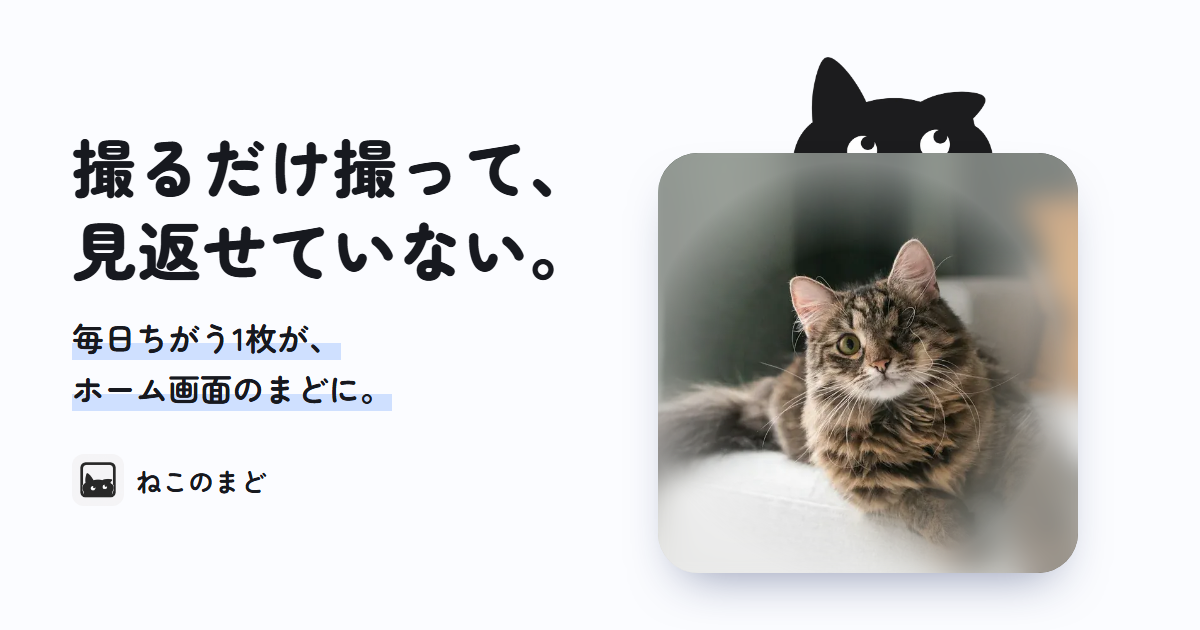
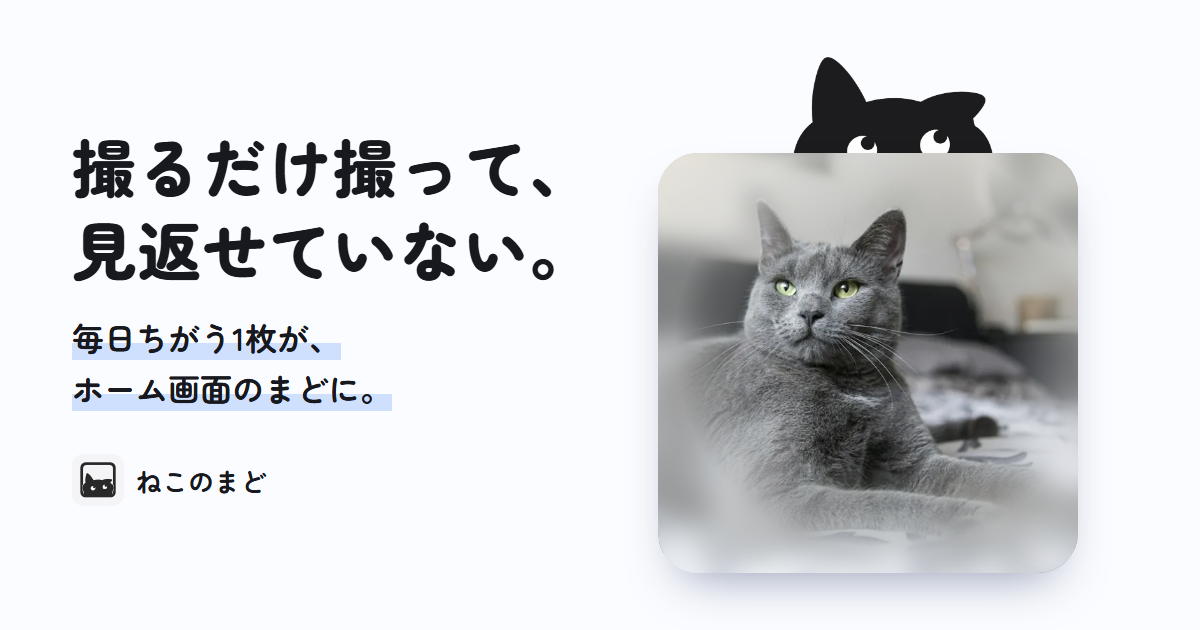
LP: 最初の写真を両目の見える猫に、見出しの下線を両方の行に

Changed region(s): [[0.5242, 0.2413, 0.925, 0.9349], [0.5242, 0.4524, 0.555, 0.4825]]

diff --git a/lp/index.html b/lp/index.html
@@ -37,7 +37,7 @@
     <div class="in hero-in">
       <div class="hero-words">
         <h1>撮るだけ撮って、<br>見返せていない。</h1>
-        <p class="hero-answer">毎日ちがう1枚が、<br>ホーム画面のまどに。</p>
+        <p class="hero-answer"><span class="mk">毎日ちがう1枚が、<br>ホーム画面のまどに。</span></p>
         <a class="cta" href="https://apps.apple.com/jp/app/id6801962436">App Storeで見る</a>
         <ul class="sure" aria-label="安心のポイント">
           <li>無料ではじめられる</li>
@@ -49,9 +49,9 @@
       <div class="hero-window">
         <img class="nowa nowa-peek" src="images/nowa-peek.webp" alt="" width="640" height="409">
         <div class="win cloudy" data-cloudy role="img" aria-label="ホーム画面のウィジェット。くもったまどの札を押すと晴れて、猫の写真が出ます。">
-          <img src="images/photo-sofa.webp" alt="" style="object-position: 40% 50%">
+          <img src="images/photo-grey-bed.webp" alt="" style="object-position: 52% 50%">
           <div class="frost" aria-hidden="true">
-            <img class="blur" src="images/photo-sofa.webp" alt="" style="object-position: 40% 50%">
+            <img class="blur" src="images/photo-grey-bed.webp" alt="" style="object-position: 52% 50%">
             <i class="fog"></i>
             <svg class="paw paw-1" viewBox="0 0 32 32"><ellipse cx="16" cy="21" rx="7.5" ry="6.5"/><ellipse cx="7.5" cy="12.5" rx="3" ry="3.8"/><ellipse cx="13" cy="7.5" rx="3" ry="3.8"/><ellipse cx="19.5" cy="7.5" rx="3" ry="3.8"/><ellipse cx="25" cy="12.5" rx="3" ry="3.8"/></svg>
             <svg class="paw paw-2" viewBox="0 0 32 32"><ellipse cx="16" cy="21" rx="7.5" ry="6.5"/><ellipse cx="7.5" cy="12.5" rx="3" ry="3.8"/><ellipse cx="13" cy="7.5" rx="3" ry="3.8"/><ellipse cx="19.5" cy="7.5" rx="3" ry="3.8"/><ellipse cx="25" cy="12.5" rx="3" ry="3.8"/></svg>
@@ -82,7 +82,7 @@
     <div class="in split">
       <div class="words">
         <h2>ひらけば、ぜんぶ猫。</h2>
-        <p class="sub">スクショもレシートも、まざらない。</p>
+        <p class="sub"><span class="mk">スクショもレシートも、まざらない。</span></p>
       </div>
       <div class="sort" aria-hidden="true">
         <div class="roll">
@@ -105,7 +105,7 @@
     <div class="in split rev">
       <div class="words">
         <h2>かわいい1枚が、<br>トークだと流れる。</h2>
-        <p class="sub">家族のホーム画面に、まどで届く。</p>
+        <p class="sub"><span class="mk">家族のホーム画面に、まどで届く。</span></p>
         <p class="small">招待された家族は無料。招待した人だけの、小さな場所です。</p>
       </div>
       <div class="pair" aria-hidden="true">
@@ -130,7 +130,7 @@
     <div class="in split">
       <div class="words">
         <h2>この子との毎日は、<br>あっという間。</h2>
-        <p class="sub">毎月1日、先月が1冊になって届く。</p>
+        <p class="sub"><span class="mk">毎月1日、先月が1冊になって届く。</span></p>
         <p class="tag-plus">Plus・14日間無料</p>
       </div>
       <div class="book" aria-hidden="true">

diff --git a/lp/assets/lp.css b/lp/assets/lp.css
@@ -61,7 +61,7 @@ body::before { content: ""; position: fixed; inset: 0 0 auto; height: env(safe-a
 .hero-in { display: grid; gap: 36px; }
 .hero h1 { font-size: clamp(32px, 9vw, 56px); }
 .hero-answer { margin-top: 14px; font-family: var(--font-head); font-weight: 700; font-size: clamp(18px, 4.8vw, 24px); line-height: 1.55; }
-.hero-answer, .sub { background: linear-gradient(transparent 62%, var(--mark) 62%); display: inline; box-decoration-break: clone; -webkit-box-decoration-break: clone; }
+.mk { background: linear-gradient(transparent 62%, var(--mark) 62%); box-decoration-break: clone; -webkit-box-decoration-break: clone; }
 .hero .cta { margin-top: 26px; }
 .sure { list-style: none; padding: 0; margin: 18px 0 0; display: flex; flex-wrap: wrap; gap: 6px 14px; font-size: 13px; color: var(--ink-2); }
 .sure li::before { content: "✓ "; color: var(--blue); font-weight: 700; }
